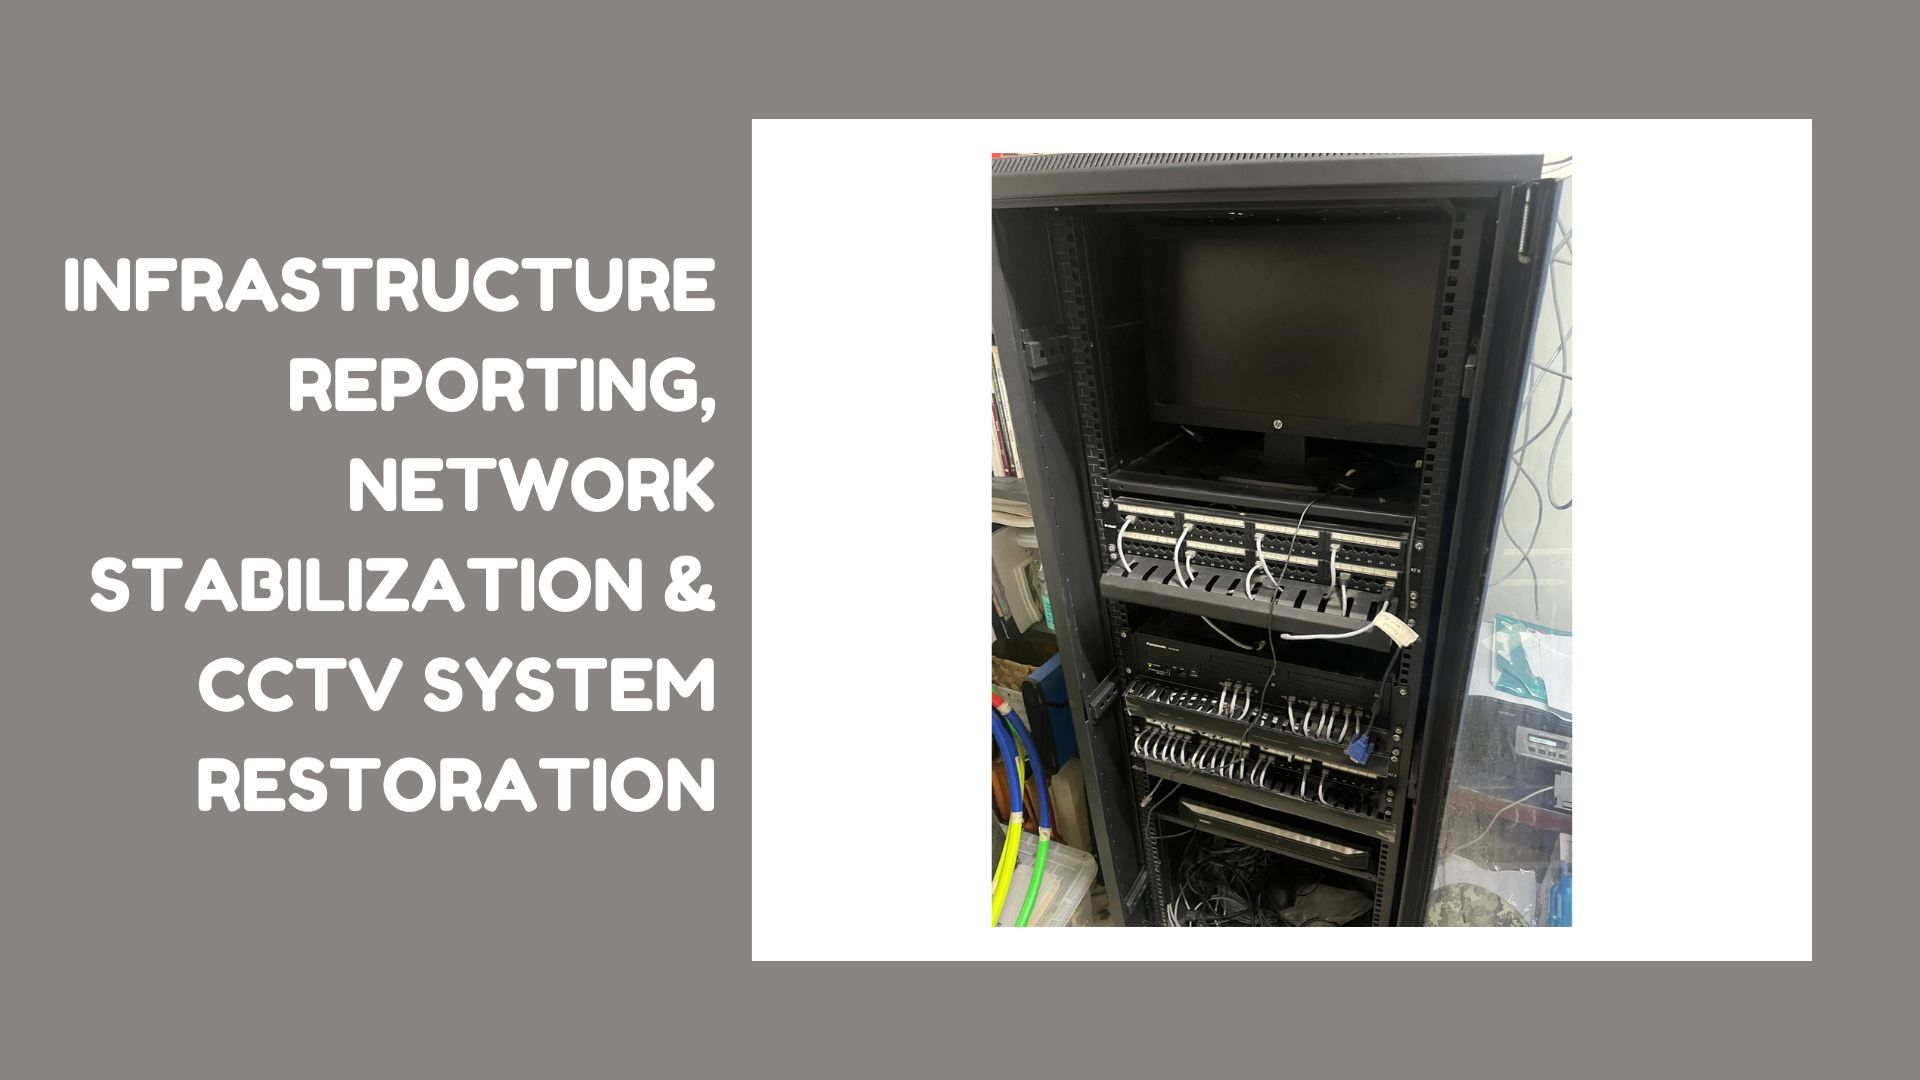
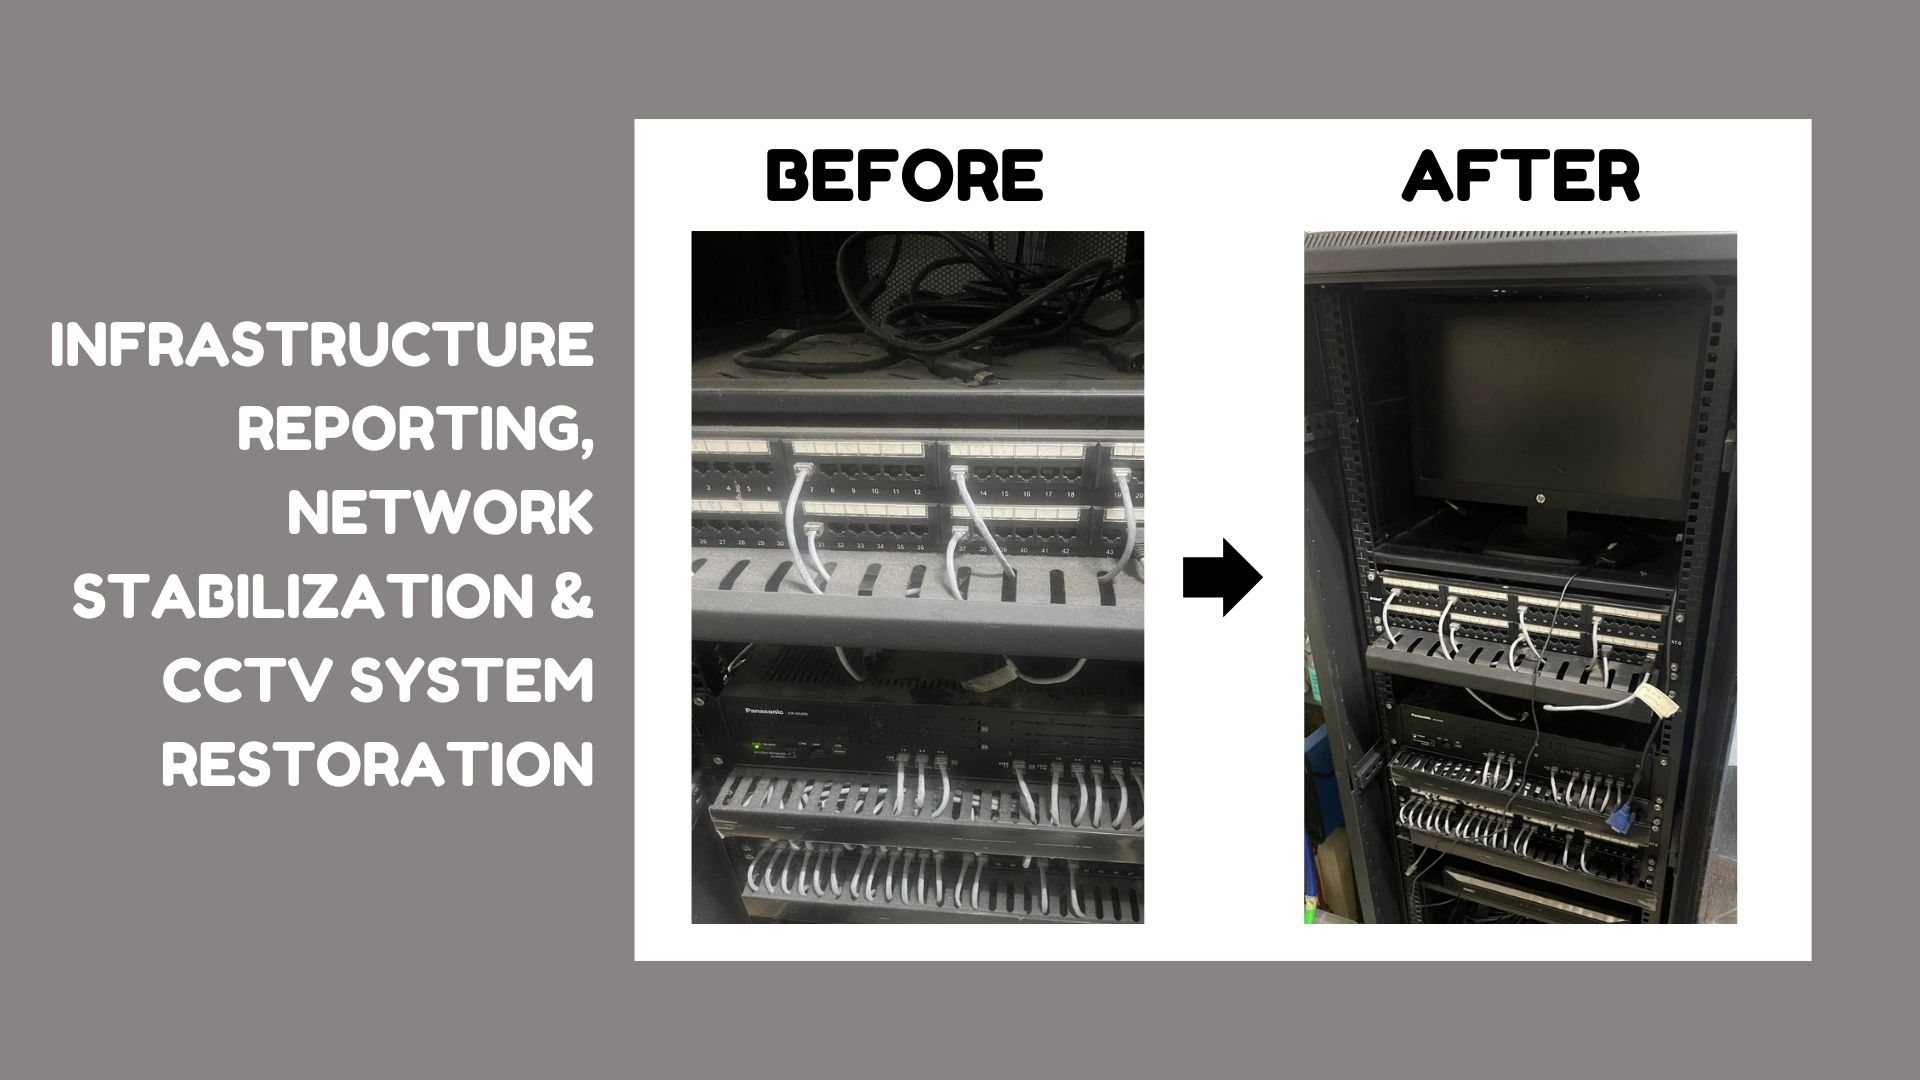
added ICT Systems Timeline  and improved other aspects

diff --git a/1_Work.html b/1_Work.html
@@ -88,9 +88,23 @@
     </div>
 </div>
 
+   <!-- Item 5 -->
+        <div class="timeline-item left">
+    <div class="timeline-card">
+
+        <div class="img-clickable"
+             data-bs-toggle="modal"
+             data-bs-target="#setup5Modal">
+
+            <img src="img/work/1/5.jpg" alt="ICT Systems, Network & Event Coordination">
+        </div>
+                <p>Ensuring seamless ICT operations, reliable network and CCTV systems, and smooth technical support for institutional activities.</p>
+
+    </div>
+</div>
      
         <!-- Item 3 -->
-          <div class="timeline-item left">
+          <div class="timeline-item right">
     <div class="timeline-card">
 
         <div class="img-clickable"
@@ -107,7 +121,7 @@
 
 
          <!-- Item 4 -->
-           <div class="timeline-item right">
+           <div class="timeline-item left">
     <div class="timeline-card">
 
         <div class="img-clickable"
@@ -122,20 +136,23 @@
 </div>
 
 
-         <!-- Item 5 -->
-        <div class="timeline-item left">
+      
+
+    <!-- Item 6 -->
+        <div class="timeline-item right">
     <div class="timeline-card">
 
         <div class="img-clickable"
              data-bs-toggle="modal"
-             data-bs-target="#setup5Modal">
+             data-bs-target="#setup6Modal">
 
-            <img src="img/work/1/5.jpg" alt="OS Installation">
+            <img src="img/work/1/6.jpg" alt="OS Installation">
         </div>
                 <p>A positive and memorable school-based experience built on collaboration, learning, and meaningful professional relationships.</p>
 
     </div>
 </div>
+
 
 
         
@@ -238,7 +255,7 @@
             <img src="img/work/1/2.1.jpg" alt="ICT Setup" class="img-fluid rounded shadow" style="max-width: 150px;">
           </div>
           <div class="story-text">
-            <p>Prepared formal equipment request reports, resolved long-standing campus-wide network issues, and simultaneously fixed recurring CCTV systems problems across both buildings by restoring stability, connectivity, and proper operation while managing all related equipment.</p>
+            <p>Prepared formal equipment request reports, documented the process, resolved long-standing campus-wide network issues, and simultaneously fixed recurring CCTV system problems across both buildings by restoring stability, connectivity, and proper operation while managing all related equipment.</p>
           </div>
         </div>
 
@@ -248,7 +265,7 @@
             <img src="img/work/1/2.2.jpg" alt="Network Mapping" class="img-fluid rounded shadow" style="max-width: 170px;">
           </div>
           <div class="story-text">
-            <p>Successfully stabilized and upgraded the network infrastructure, resolving long-standing performance issues and eliminating packet congestion caused by outdated unmanaged switches, resulting in reliable connectivity and expanding capacity from 50 to over 150 simultaneous users.</p>
+            <p>When I joined Centro Escolar Integrated School, the campus Wi-Fi was largely unreliable and, in many areas, completely unavailable because the previous ICT staff were unable to resolve the unstable connection and had restricted access. After diagnosing network issues, mapping the campus infrastructure, and implementing upgrades and coverage optimizations, the network became fully operational, allowing all staff and even guests to connect reliably. The system now supports 150–200 users, compared to the previous school year when most areas had no internet access, significantly improving productivity and access to online resources.</p>
           </div>
         </div>
 
@@ -258,7 +275,7 @@
             <img src="img/work/1/2.3.png" alt="Excel Tracking" class="img-fluid rounded shadow">
           </div>
           <div class="story-text">
-            <p>After stabilizing the network, the CCTV system was restored to full operation by reconfiguring several cameras to ensure proper connectivity, coverage, and functionality. A formal CCTV access request form was also created to regulate access and strengthen system security and accountability.</p>
+            <p>Initially, only 3 cameras in Building 1 were functional while the CCTV system in Building 2 had been abandoned due to network issues. After comprehensive troubleshooting and network reconfiguration, I restored full CCTV functionality with 9 cameras operational in Building 1 and 22 in Building 2, optimizing connectivity, coverage, and reliability, and implemented a formal CCTV access request process to enhance security, accountability, and monitoring procedures.</p>
           </div>
         </div>
 
@@ -402,9 +419,53 @@ function goBack() {
 </div>
 
 
+<!-- Storybook Modal 5 -->
+<div class="modal fade" id="setup5Modal" tabindex="-1" aria-labelledby="setup5ModalLabel" aria-hidden="true">
+  <div class="modal-dialog modal-xl modal-dialog-centered">
+    <div class="modal-content storybook-modal">
+      <div class="modal-header">
+        <h5 class="modal-title" id="setup5ModalLabel">ICT Systems, Network & Event Coordination</h5>
+        <button type="button" class="btn-close" data-bs-dismiss="modal" aria-label="Close"></button>
+      </div>
+      <div class="modal-body storybook-body">
+        <!-- Story Slide 1 -->
+        <div class="story-slide">
+          <div class="story-img">
+            <img src="img/work/1/5.1.jpg" alt="Network & CCTV Monitoring" class="img-fluid rounded shadow" style="width: 85%; max-width: 200px;">
+          </div>
+          <div class="story-text">
+            <p>Maintained and monitored the institution’s network and CCTV systems, serving as the CCTV operator, ensuring stable connectivity, proper configuration, and uninterrupted system functionality for daily operations.</p>
+          </div>
+        </div>
 
-   <!-- Storybook Modal 5 -->
-<div class="modal fade" id="setup5Modal" tabindex="-1" aria-hidden="true">
+        <!-- Story Slide 2 -->
+        <div class="story-slide">
+          <div class="story-img">
+            <img src="img/work/1/5.2.jpg" alt="Asset Management" class="img-fluid rounded shadow" style="max-width: 170px;">
+          </div>
+          <div class="story-text">
+            <p>Managed ICT asset inventory, including computers, peripherals, network equipment, and surveillance systems, performing regular checks, documentation, and monitoring to ensure all devices remain operational and properly configured.</p>
+          </div>
+        </div>
+
+        <!-- Story Slide 3 -->
+        <div class="story-slide">
+          <div class="story-img">
+            <img src="img/work/1/5.3.jpg" alt="Event Coordination" class="img-fluid rounded shadow" style="max-width: 150px;">
+          </div>
+          <div class="story-text">
+            <p>Coordinated audio-visual requirements for institutional events and supervised the NCAE 2025 online examination, ensuring system readiness, technical setup, and smooth execution through effective staff collaboration.</p>
+          </div>
+        </div>
+
+      </div>
+    </div>
+  </div>
+</div>
+
+
+<!-- Storybook Modal 6 -->
+<div class="modal fade" id="setup6Modal" tabindex="-1" aria-hidden="true">
   <div class="modal-dialog modal-xl modal-dialog-centered">
     <div class="modal-content">
 
@@ -415,17 +476,17 @@ function goBack() {
 
       <div class="modal-body text-center p-4">
         <img 
-          src="img/work/1/5.1.jpg"
+          src="img/work/1/6.1.jpg"
           alt="Work Experience"
           class="img-fluid"
           style="max-height: 80vh; object-fit: contain;"
         >
       </div>
       
-
     </div>
   </div>
 </div>
+
 
 
 
